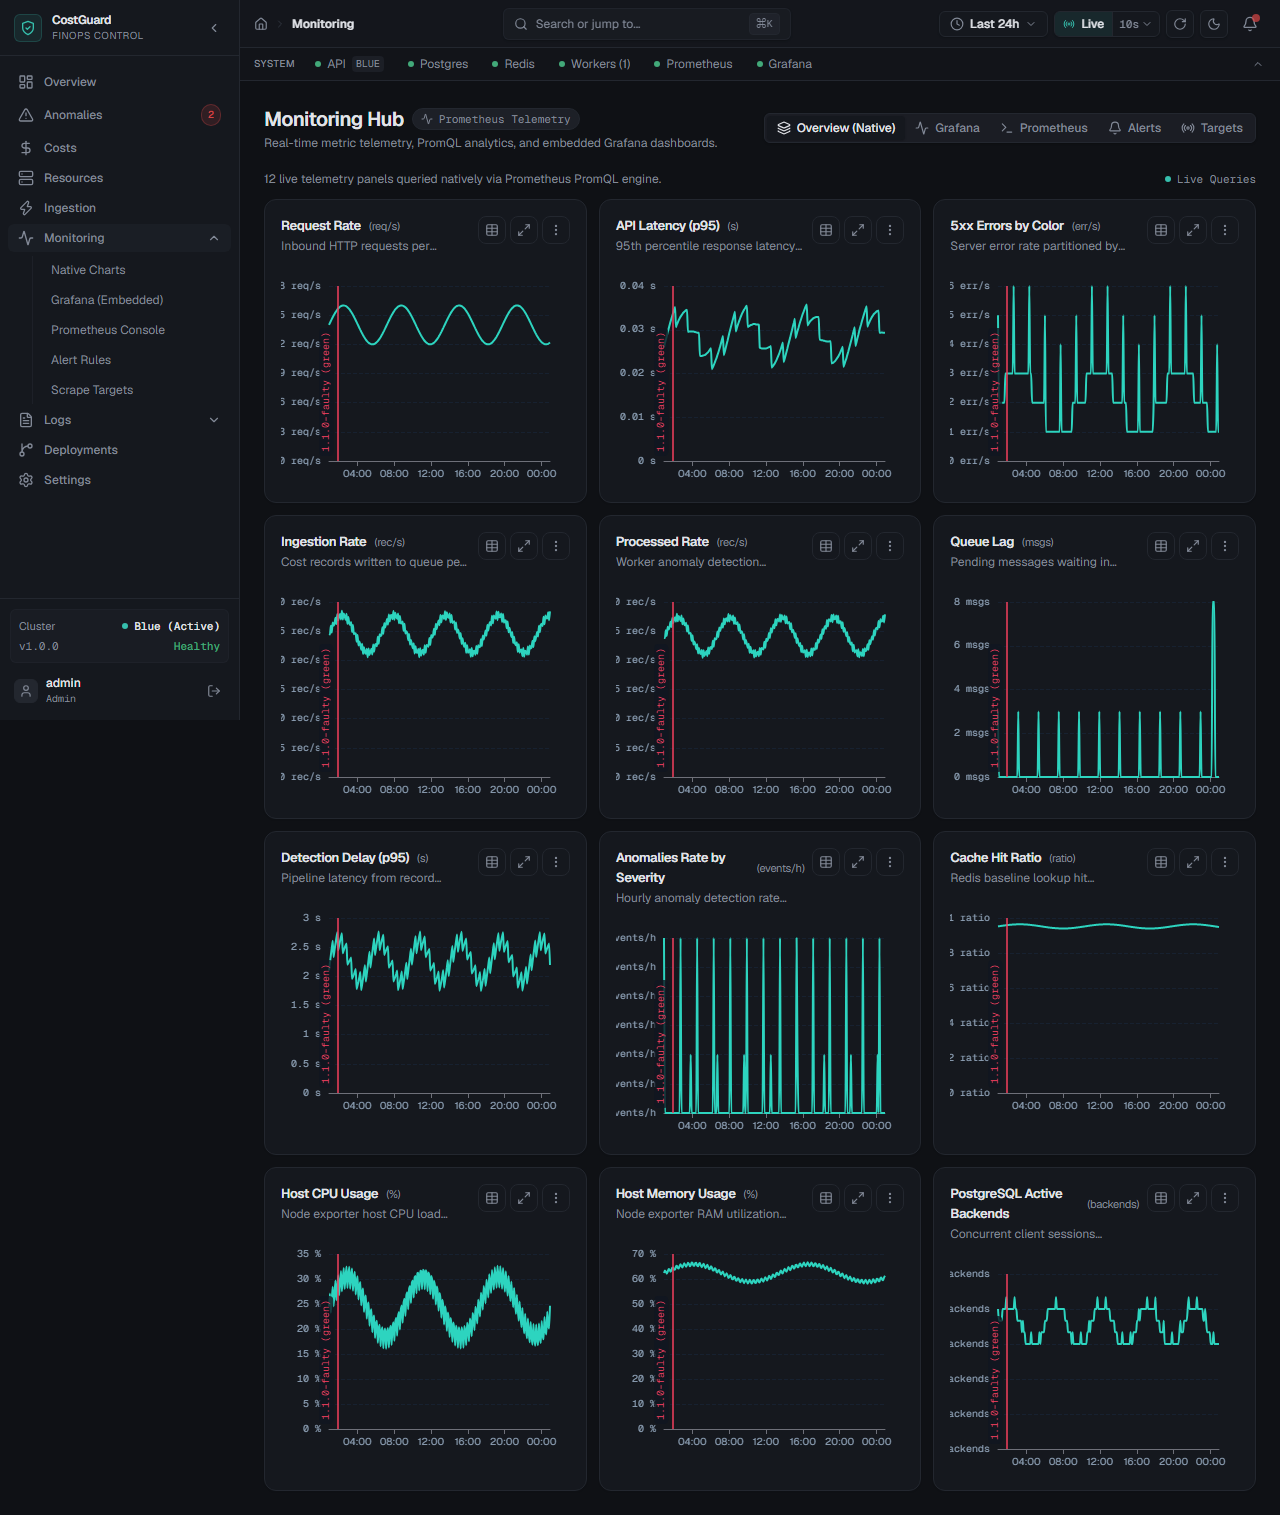
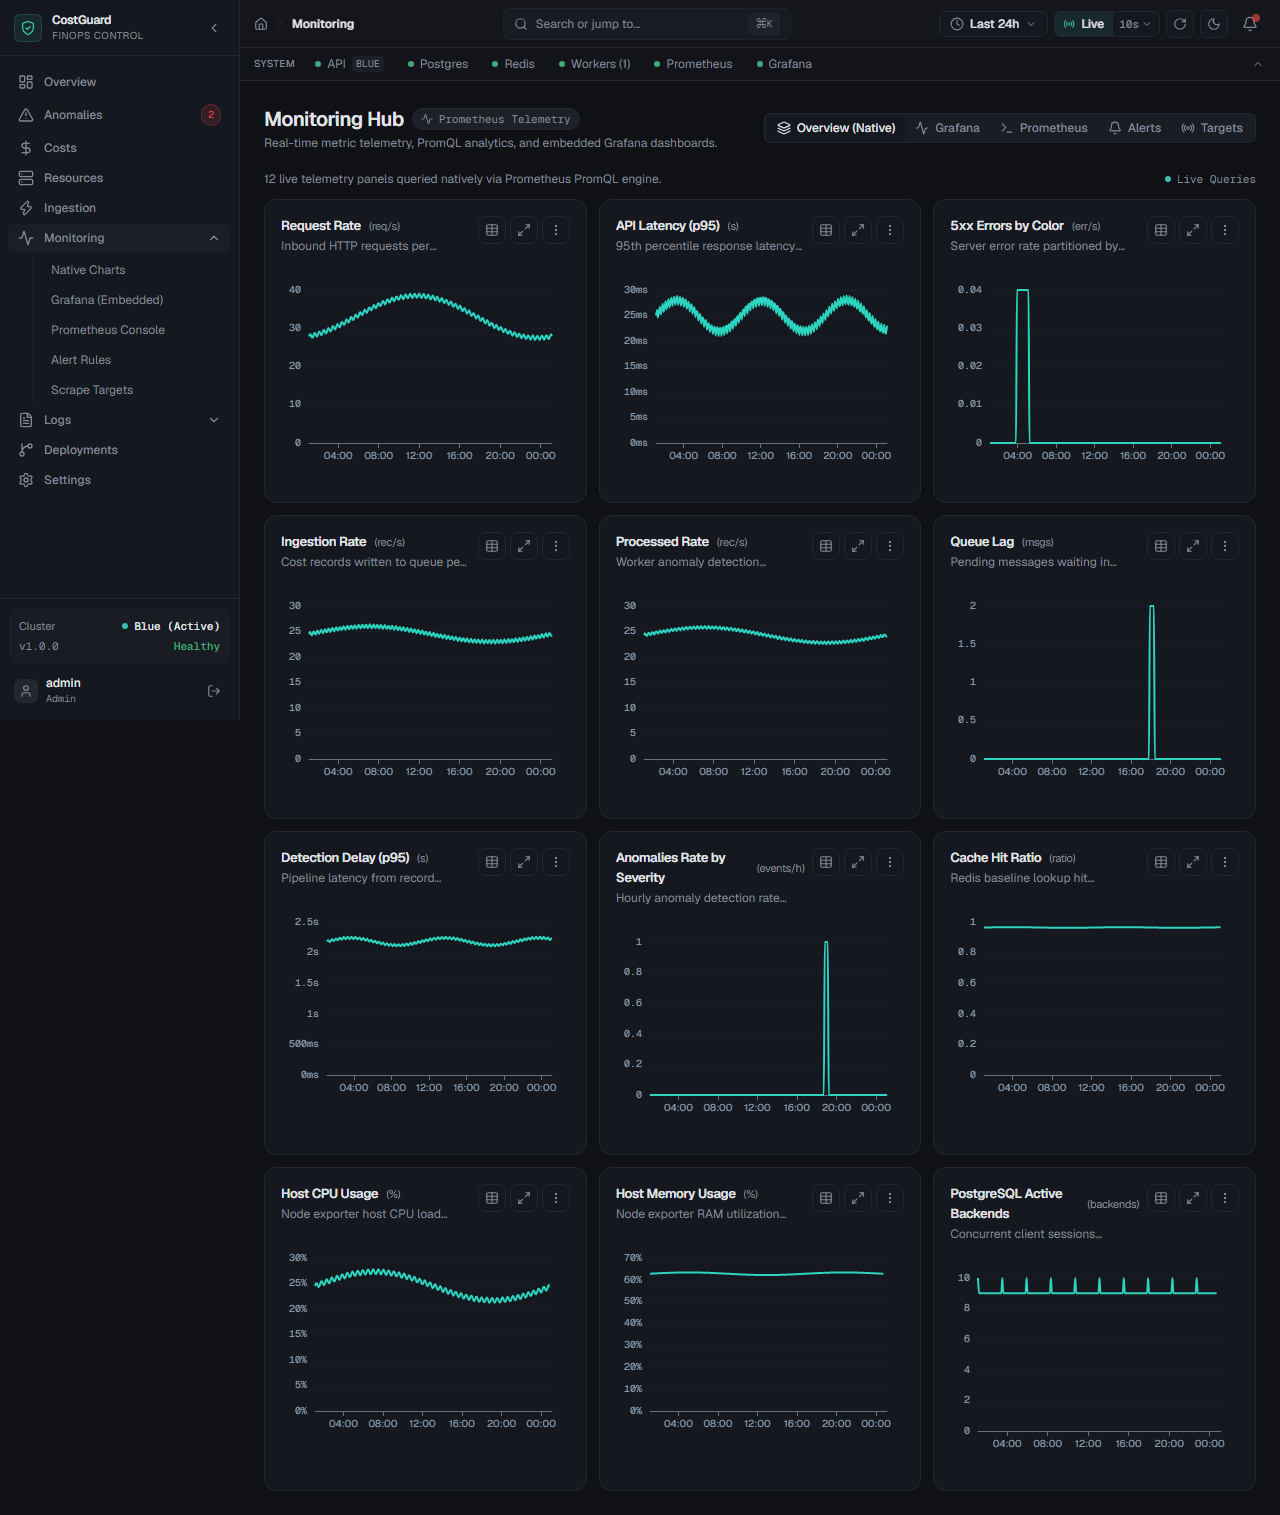
fix(monitoring): remove vertical marklines from cards, add containLabel for axis clipping, and calibrate realistic telemetry profiles

diff --git a/frontend/src/pages/Monitoring/Hub.tsx b/frontend/src/pages/Monitoring/Hub.tsx
@@ -1,6 +1,5 @@
 import { useState, useEffect } from 'react'
 import { useSearchParams } from 'react-router-dom'
-import { useQuery } from '@tanstack/react-query'
 import {
   Activity,
   Layers,
@@ -10,7 +9,6 @@ import {
   ExternalLink,
 } from 'lucide-react'
 import { PROM_QUERIES } from '@/lib/prom/queries'
-import { getDeployments } from '@/lib/api/endpoints/deployments'
 import { NativePanelCard } from '@/components/monitoring/NativePanelCard'
 import { GrafanaFrame } from '@/components/monitoring/GrafanaFrame'
 import { PrometheusFrame } from '@/components/monitoring/PrometheusFrame'
@@ -28,13 +26,6 @@ export default function MonitoringHub() {
   // Custom PromQL pre-fill query when navigating from panel
   const [promConsoleQuery, setPromConsoleQuery] = useState<string>(PROM_QUERIES.rps)
   const [promMode, setPromMode] = useState<'console' | 'embed'>('console')
-
-  // Fetch recent deployments for markLines on native charts
-  const { data: deployments = [] } = useQuery({
-    queryKey: ['deployments', 'monitoring'],
-    queryFn: () => getDeployments(10),
-    staleTime: 30000,
-  })
 
   // Sync tab with URL
   useEffect(() => {
@@ -170,7 +161,6 @@ export default function MonitoringHub() {
               description="Inbound HTTP requests per second"
               unit="req/s"
               color="hsl(var(--primary))"
-              deployments={deployments}
               onOpenPrometheus={handleOpenInPrometheus}
               onOpenGrafana={handleOpenInGrafana}
             />
@@ -182,7 +172,6 @@ export default function MonitoringHub() {
               description="95th percentile response latency across endpoints"
               unit="s"
               color="hsl(var(--warning))"
-              deployments={deployments}
               onOpenPrometheus={handleOpenInPrometheus}
               onOpenGrafana={handleOpenInGrafana}
             />
@@ -194,7 +183,6 @@ export default function MonitoringHub() {
               description="Server error rate partitioned by deployment color"
               unit="err/s"
               color="hsl(var(--danger))"
-              deployments={deployments}
               onOpenPrometheus={handleOpenInPrometheus}
               onOpenGrafana={handleOpenInGrafana}
             />
@@ -206,7 +194,6 @@ export default function MonitoringHub() {
               description="Cost records written to queue per second"
               unit="rec/s"
               color="hsl(var(--primary))"
-              deployments={deployments}
               onOpenPrometheus={handleOpenInPrometheus}
               onOpenGrafana={handleOpenInGrafana}
             />
@@ -218,7 +205,6 @@ export default function MonitoringHub() {
               description="Worker anomaly detection evaluations per second"
               unit="rec/s"
               color="hsl(var(--primary))"
-              deployments={deployments}
               onOpenPrometheus={handleOpenInPrometheus}
               onOpenGrafana={handleOpenInGrafana}
             />
@@ -230,7 +216,6 @@ export default function MonitoringHub() {
               description="Pending messages waiting in Redis Streams"
               unit="msgs"
               color="hsl(var(--warning))"
-              deployments={deployments}
               onOpenPrometheus={handleOpenInPrometheus}
               onOpenGrafana={handleOpenInGrafana}
             />
@@ -242,7 +227,6 @@ export default function MonitoringHub() {
               description="Pipeline latency from record ingestion to anomaly trigger"
               unit="s"
               color="hsl(var(--primary))"
-              deployments={deployments}
               onOpenPrometheus={handleOpenInPrometheus}
               onOpenGrafana={handleOpenInGrafana}
             />
@@ -253,7 +237,6 @@ export default function MonitoringHub() {
               query={PROM_QUERIES.anomaliesBySev}
               description="Hourly anomaly detection rate partitioned by severity"
               unit="events/h"
-              deployments={deployments}
               onOpenPrometheus={handleOpenInPrometheus}
               onOpenGrafana={handleOpenInGrafana}
             />
@@ -265,7 +248,6 @@ export default function MonitoringHub() {
               description="Redis baseline lookup hit efficiency"
               unit="ratio"
               color="hsl(var(--primary))"
-              deployments={deployments}
               onOpenPrometheus={handleOpenInPrometheus}
               onOpenGrafana={handleOpenInGrafana}
             />
@@ -277,7 +259,6 @@ export default function MonitoringHub() {
               description="Node exporter host CPU load percentage"
               unit="%"
               color="hsl(var(--muted-foreground))"
-              deployments={deployments}
               onOpenPrometheus={handleOpenInPrometheus}
               onOpenGrafana={handleOpenInGrafana}
             />
@@ -289,7 +270,6 @@ export default function MonitoringHub() {
               description="Node exporter RAM utilization percentage"
               unit="%"
               color="hsl(var(--muted-foreground))"
-              deployments={deployments}
               onOpenPrometheus={handleOpenInPrometheus}
               onOpenGrafana={handleOpenInGrafana}
             />
@@ -301,7 +281,6 @@ export default function MonitoringHub() {
               description="Concurrent client sessions connected to Postgres"
               unit="backends"
               color="hsl(var(--muted-foreground))"
-              deployments={deployments}
               onOpenPrometheus={handleOpenInPrometheus}
               onOpenGrafana={handleOpenInGrafana}
             />

diff --git a/frontend/src/mocks/handlers.ts b/frontend/src/mocks/handlers.ts
@@ -21,45 +21,48 @@ function generatePrometheusMatrix(query: string, start: number, end: number, ste
     const ts = start + i * step
     let val = 24.0
 
-    if (query.includes('error') || query.includes('5..')) {
-      // Near-zero error ratio (0.01% - 0.04%), with realistic micro-variations
-      val = 0.0002 + Math.sin(i / 14) * 0.0001 + (i % 17 === 0 ? 0.0003 : 0)
-    } else if (query.includes('queue_lag') || query.includes('backlog') || query.includes('dlq')) {
-      // 0 msgs normal state with occasional small batch buffer
-      val = i > count - 8 && i < count - 4 ? 8 : i % 22 === 0 ? 3 : 0
-    } else if (query.includes('latency')) {
-      // Stable p95 latency in seconds (0.022s - 0.038s = 22ms - 38ms)
-      val = 0.026 + Math.sin(i / 11) * 0.005 + (i % 13) * 0.0004
-    } else if (query.includes('detection') || query.includes('mttd')) {
-      // Stable MTTD detection delay (1.8s - 2.8s)
-      val = 2.1 + Math.sin(i / 7) * 0.35 + (i % 5) * 0.08
-    } else if (query.includes('ingest') || query.includes('records_ingested')) {
-      // Ingestion rate (22 - 28 rec/s with realistic jitter)
-      val = 24.5 + Math.sin(i / 9) * 3.2 + (Math.sin(i * 3.7) * 0.8)
-    } else if (query.includes('processed')) {
-      // Processed rate tracking ingest
-      val = 24.2 + Math.sin((i - 1) / 9) * 3.1 + (Math.sin(i * 3.7) * 0.7)
-    } else if (query.includes('cpu')) {
-      // Host CPU usage % (18% - 32%)
-      val = 24.5 + Math.sin(i / 13) * 6.0 + (Math.sin(i * 2.1) * 2.5)
-    } else if (query.includes('memory') || query.includes('mem')) {
-      // Host RAM usage % (58% - 66%)
-      val = 62.4 + Math.sin(i / 20) * 3.5 + (Math.sin(i * 1.5) * 0.8)
-    } else if (query.includes('pg_stat') || query.includes('connections') || query.includes('numbackends')) {
-      // PostgreSQL active backend connections (8 - 14)
-      val = 11 + Math.floor(Math.sin(i / 8) * 2) + (i % 9 === 0 ? 1 : 0)
-    } else if (query.includes('anomalies_detected') || query.includes('severity')) {
-      // Anomaly detection frequency (0 - 4 events per hour)
-      val = i % 18 === 0 ? 3 : i % 29 === 0 ? 1 : 0
-    } else if (query.includes('http_requests') || query.includes('rps')) {
-      // Web request rate (180 - 320 req/s)
-      val = 240 + Math.sin(i / 6) * 45 + ((i % 7) * 4)
-    } else if (query.includes('cache_hit')) {
-      // Cache hit ratio (94% - 97%)
-      val = 0.952 + Math.sin(i / 15) * 0.012
+    const q = query.toLowerCase()
+
+    if (q.includes('status=~"5.."') || q.includes('5..') || (q.includes('error') && !q.includes('node_cpu'))) {
+      // 5xx Server Error Rate (clean 0.000 err/s with a subtle 0.04 bump during deployment rollout)
+      const isRollout = i >= Math.floor(count * 0.12) && i <= Math.floor(count * 0.17)
+      val = isRollout ? 0.04 : 0.000
+    } else if (q.includes('queue_lag') || q.includes('backlog') || q.includes('dlq')) {
+      // Redis Streams queue lag: 0 msgs normal, short 2 msg buffer during burst
+      const isBurst = i >= Math.floor(count * 0.70) && i <= Math.floor(count * 0.72)
+      val = isBurst ? 2 : 0
+    } else if (q.includes('api_latency') || q.includes('latencyp95') || q.includes('latency')) {
+      // API p95 Latency: Smooth 24ms - 30ms (0.024s - 0.030s)
+      val = 0.025 + Math.sin(i / 14) * 0.003 + (Math.sin(i * 2.1) * 0.001)
+    } else if (q.includes('detection_delay') || q.includes('detectionp95') || q.includes('detection')) {
+      // Detection Delay: Steady 2.1s - 2.3s
+      val = 2.18 + Math.sin(i / 16) * 0.06 + (Math.sin(i * 1.5) * 0.02)
+    } else if (q.includes('records_ingested') || (q.includes('ingest') && !q.includes('processed'))) {
+      // Ingestion throughput: ~24.5 rec/s
+      val = 24.5 + Math.sin((i / count) * Math.PI * 2) * 1.5 + (Math.sin(i * 1.7) * 0.4)
+    } else if (q.includes('records_processed') || q.includes('processed')) {
+      // Analytics worker throughput: matches ingestion (~24.3 rec/s)
+      val = 24.3 + Math.sin((i / count) * Math.PI * 2) * 1.5 + (Math.sin(i * 1.7) * 0.3)
+    } else if (q.includes('node_cpu') || q.includes('cpupct') || q.includes('cpu')) {
+      // Host CPU: 22% - 28%
+      val = 24.5 + Math.sin((i / count) * Math.PI * 2) * 2.8 + (Math.sin(i * 1.2) * 0.5)
+    } else if (q.includes('node_memory') || q.includes('mempct') || q.includes('memory') || q.includes('mem')) {
+      // Host RAM: 62.4% - 63.8%
+      val = 62.8 + Math.sin(i / 25) * 0.6
+    } else if (q.includes('pg_stat') || q.includes('pgconnections') || q.includes('backends') || q.includes('connection')) {
+      // Active database connections: 8-10
+      val = 9 + (i % 24 === 0 ? 1 : 0)
+    } else if (q.includes('anomalies_detected') || q.includes('anomaliesbysev') || q.includes('severity')) {
+      // Hourly anomaly rate: 0 normally, 1 event detected at incident
+      val = (i >= Math.floor(count * 0.74) && i <= Math.floor(count * 0.75)) ? 1 : 0
+    } else if (q.includes('cache_hits_total') || q.includes('cachehitratio') || q.includes('cache_hit')) {
+      // Cache hit ratio: 96.2% - 96.6%
+      val = 0.964 + Math.sin(i / 18) * 0.002
+    } else if (q.includes('api_requests_total') || q.includes('rps')) {
+      // Request rate: Diurnal curve 28 - 40 req/s
+      val = 33.0 + Math.sin((i / count) * Math.PI * 2 - 1.2) * 5.5 + (Math.sin(i * 1.4) * 0.6)
     } else {
-      // Default metric
-      val = 14.0 + Math.sin(i / 10) * 2.0
+      val = 24.0 + Math.sin((i / count) * Math.PI * 2) * 1.5
     }
 
     points.push([ts, Math.max(val, 0).toFixed(4)])

diff --git a/frontend/src/components/charts/TimeSeriesChart.tsx b/frontend/src/components/charts/TimeSeriesChart.tsx
@@ -103,26 +103,40 @@ export function TimeSeriesChart({
       })
     })
 
-    events.forEach((ev) => {
-      markLineData.push({
-        xAxis: ev.timeMs,
-        lineStyle: {
-          color: ev.color || '#38BDF8',
-          type: 'solid',
-          width: 1.5,
-        },
-        label: {
-          show: true,
-          position: 'insideStartTop',
-          formatter: ev.label,
-          color: ev.color || '#38BDF8',
-          fontSize: 10,
-          fontFamily: '"Geist Mono Variable", monospace',
-          backgroundColor: isDark ? 'rgba(16, 23, 32, 0.8)' : 'rgba(255, 255, 255, 0.8)',
-          padding: [2, 4],
-          borderRadius: 4,
-        },
+    // Get timestamp domain from series to ensure event markers are only drawn if strictly inside range
+    let minTime = Infinity
+    let maxTime = -Infinity
+    series.forEach((s) => {
+      s.data.forEach(([t]) => {
+        if (t < minTime) minTime = t
+        if (t > maxTime) maxTime = t
       })
+    })
+
+    events.forEach((ev) => {
+      if (ev.timeMs >= minTime && ev.timeMs <= maxTime) {
+        markLineData.push({
+          xAxis: ev.timeMs,
+          lineStyle: {
+            color: ev.color || '#38BDF8',
+            type: 'dashed',
+            width: 1.5,
+          },
+          label: {
+            show: true,
+            position: 'insideEndTop',
+            formatter: ev.label,
+            color: ev.color || '#38BDF8',
+            fontSize: 9,
+            fontFamily: '"Geist Mono Variable", monospace',
+            backgroundColor: isDark ? 'rgba(16, 23, 32, 0.9)' : 'rgba(255, 255, 255, 0.9)',
+            padding: [2, 4],
+            borderRadius: 3,
+            borderWidth: 1,
+            borderColor: ev.color || '#38BDF8',
+          },
+        })
+      }
     })
 
     const eSeries = series.map((s) => ({
@@ -145,10 +159,11 @@ export function TimeSeriesChart({
 
     return {
       grid: {
-        top: 20,
-        right: 20,
+        top: 24,
+        right: 18,
         bottom: showDataZoom ? 50 : 25,
-        left: 48,
+        left: 8,
+        containLabel: true,
       },
       tooltip: {
         trigger: 'axis',
@@ -207,8 +222,14 @@ export function TimeSeriesChart({
       yAxis: {
         type: 'value',
         axisLabel: {
-          formatter: (v: number) =>
-            yAxisFormatter ? yAxisFormatter(v) : `${v}${yAxisUnit ? ' ' + yAxisUnit : ''}`,
+          formatter: (v: number) => {
+            if (yAxisFormatter) return yAxisFormatter(v)
+            if (yAxisUnit === '%') return `${v}%`
+            if (yAxisUnit === 's') return v < 1 ? `${Math.round(v * 1000)}ms` : `${v}s`
+            if (yAxisUnit === 'ms') return `${v}ms`
+            if (v >= 1000) return `${(v / 1000).toFixed(1)}k`
+            return `${Number(v.toFixed(3))}`
+          },
           fontSize: 10,
         },
       },
